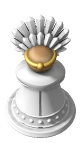
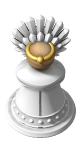
Mexica: Pilli Mexica's head on a neck with the band higher, and heads to compare: hair, face, face paint
Claude-Session: https://claude.ai/code/session_01P5r4sdmPFjyHFbMXuL3JW2

Changed region(s): [[0.2716, 0.2797, 0.7407, 0.5874], [0.7654, 0.3357, 0.7901, 0.3636]]

diff --git a/games/mexica-ui/src/lib/board/pilliLight.ts b/games/mexica-ui/src/lib/board/pilliLight.ts
@@ -35,12 +35,13 @@ import {
 const WOOD = { light: linear('#e2bf91'), dark: linear('#b98a5a') }
 const GOLD = { light: linear('#f0c85a'), dark: linear('#8a5a1c') }
 const TURQUOISE = { light: linear('#4cc3b4'), dark: linear('#0f5e5a') }
+const HAIR = { light: linear('#4a3a2e'), dark: linear('#15100c') }
 // The light on a painted face turned towards it shows the paint as it is.
 const FULL_LIGHT = 0.95
 
 // What a point of the figure is made of: paint, lightened (above 1) or darkened (below) by
-// what is painted there, bare wood, gold or turquoise.
-type Finish = { kind: 'paint' | 'wood' | 'gold' | 'turquoise'; tone: number }
+// what is painted there, bare wood, gold, turquoise, or black hair and face paint.
+type Finish = { kind: 'paint' | 'wood' | 'gold' | 'turquoise' | 'hair'; tone: number }
 type Part = { distance: (p: Vec) => number; finish: (p: Vec) => Finish }
 type Figure = { scene: Scene; finish: (p: Vec) => Finish }
 
@@ -147,6 +148,12 @@ function shade(p: Vec, figure: Figure, toward: Vec): Sample[] {
         const shine = 0.8 * facing ** 24
         return opaque(add(scale(metal, 0.3 + 0.8 * light), [shine, shine * 0.9, shine * 0.6]))
     }
+    if (finish.kind === 'hair') {
+        const half = normalize(add(KEY, toward))
+        const sheen = 0.06 * clamp(dot(normal, half)) ** 12
+        const dark = mix(HAIR.dark, HAIR.light, sun)
+        return opaque(add(scale(dark, 0.4 + 0.7 * light), [sheen, sheen, sheen]))
+    }
     if (finish.kind === 'turquoise') {
         const half = normalize(add(KEY, toward))
         const polish = 0.25 * clamp(dot(normal, half)) ** 30
@@ -211,13 +218,16 @@ const paint = (tone = 1): Finish => ({ kind: 'paint', tone })
 const WOODEN: Finish = { kind: 'wood', tone: 1 }
 const GILT: Finish = { kind: 'gold', tone: 1 }
 const STONE: Finish = { kind: 'turquoise', tone: 1 }
+const BLACK: Finish = { kind: 'hair', tone: 1 }
 
 // The robe up to the neck, the cape over the shoulders, the head on top.
 const ROBE = { foot: 8.6, neck: 4.6, height: 15.5, round: 1.3 }
 const PLINTH = { height: 1.8, radius: 9.1, round: 0.45 }
 const CAPE: Vec = [6.4, 4.6, 2.9]
 const CAPE_AT = 15.6
-const HEAD = { radius: 3.7, at: [0, 0.3, 21.2] satisfies Vec }
+// The head stands clear of the cape on a short neck, so its face shows from the table's side.
+const HEAD = { radius: 3.7, at: [0, 0.3, 22.4] satisfies Vec }
+const NECK = { from: [0, 0.1, 17.6] satisfies Vec, radius: 1.9 }
 // The band round the hem, clear of the ring at the foot: a raised line along each edge and
 // between them a stepped fret, repeating a whole number of times round the robe.
 const HEM = {
@@ -455,13 +465,67 @@ function head(p: Vec): number {
     return sphere(p, HEAD.at, HEAD.radius)
 }
 
+// Hair over the head down to a fringe across the brow, lower at the sides and the back, standing
+// a little proud of the head so its edge shows.
+const FRINGE = { back: -2.7, front: 1.5, proud: 0.3 }
+const NOSE: Vec = [0, HEAD.at[1] + HEAD.radius - 0.25, HEAD.at[2] - 0.75]
+const EYES = { apart: 1.2, rise: 0.15, size: 0.42 }
+const FACE_PAINT = { rise: 0.15, half: 0.6 }
+
+function fringeAt(p: Vec): number {
+    const front = (p[1] - HEAD.at[1]) / HEAD.radius
+    return FRINGE.back + (FRINGE.front - FRINGE.back) * smoothstep(-0.3, 0.8, front)
+}
+
+function hair(p: Vec): number {
+    const cap = sphere(p, HEAD.at, HEAD.radius + FRINGE.proud)
+    return Math.max(cap, fringeAt(p) - (p[2] - HEAD.at[2]))
+}
+
+function nose(p: Vec): number {
+    return ellipsoid([p[0] - NOSE[0], p[1] - NOSE[1], p[2] - NOSE[2]], [0.55, 0.7, 0.85])
+}
+
+function headPart(style: PilliStyle): Part {
+    const haired = style.head !== 'plain'
+    const faced = style.head === 'face' || style.head === 'painted'
+    return {
+        distance: (p) => {
+            let shape = blend(head(p), capsule(p, NECK.from, HEAD.at, NECK.radius), 0.6)
+            if (haired) shape = Math.min(shape, hair(p))
+            if (faced) shape = blend(shape, nose(p), 0.35)
+            return shape
+        },
+        finish: (p) => {
+            if (haired && hair(p) < 0.12) return BLACK
+            const rise = p[2] - HEAD.at[2]
+            const front = p[1] - HEAD.at[1] > 1
+            if (
+                style.head === 'painted' &&
+                front &&
+                Math.abs(rise - FACE_PAINT.rise) < FACE_PAINT.half
+            ) {
+                return BLACK
+            }
+            if (faced && front) {
+                const eye = Math.min(
+                    length2(p[0] - EYES.apart, rise - EYES.rise),
+                    length2(p[0] + EYES.apart, rise - EYES.rise)
+                )
+                if (eye < EYES.size) return BLACK
+            }
+            return WOODEN
+        }
+    }
+}
+
 // What the head wears, as parts of their own: a gold band with a jewel; a thinner circlet
 // higher on the brow with a medallion; the pointed turquoise diadem of the Mexica rulers on a
 // gold band; or the band with gold ear spools set with turquoise.
-const BAND = { at: HEAD.at[2] + 1.1, radius: 3.55, thickness: 0.62 }
-const JEWEL: Vec = [0, HEAD.at[1] + 3.75, BAND.at + 0.1]
+const BAND = { at: HEAD.at[2] + 2.0, radius: 3.2, thickness: 0.6 }
+const JEWEL: Vec = [0, HEAD.at[1] + BAND.radius + 0.25, BAND.at + 0.1]
 const CIRCLET = { rise: 1.9, thickness: 0.42, medallion: 1.05, depth: 0.32 }
-const DIADEM = { rise: 0.75, lean: 0.38, half: 2.6, height: 4.8, thickness: 0.22, rim: 0.4 }
+const DIADEM = { rise: 1.7, lean: 0.38, half: 2.6, height: 4.8, thickness: 0.22, rim: 0.4 }
 const SPOOL = { radius: 1.5, depth: 0.5, stone: 0.8, drop: 1.3, out: 0.35 }
 
 // A ring round the head at `rise` above its centre, `thickness` thick.
@@ -665,7 +729,7 @@ function figureOf(style: PilliStyle): Figure {
     const shapeOf = style.fan === 'plain' ? plainFan : featherFan
     const parts: Part[] = [
         { distance: (p) => body(style, p), finish: (p) => bodyFinish(style, p) },
-        { distance: head, finish: () => WOODEN },
+        headPart(style),
         ...fans.map((fan) => ({
             distance: (p: Vec) => shapeOf(fan, p),
             finish: (p: Vec) => fanFinish(style, fan, p)

diff --git a/games/mexica-ui/src/lib/board/lookOutlines.ts b/games/mexica-ui/src/lib/board/lookOutlines.ts
@@ -1,6 +1,6 @@
 // Written by scripts/render-looks.mjs: each figure's outline, by the name of its look.
 export const LOOK_OUTLINES: Record<string, string> = {
-    pilli: 'M-0.09 -32.46L-0.54 -32.24L-1.59 -31.29L-1.48 -30.96L-1.48 -30.07L-1.37 -29.96L-1.37 -29.18L-1.26 -29.07L-1.31 -28.68L-1.59 -28.74L-1.7 -29.07L-1.81 -30.29L-2.09 -31.24L-3.54 -31.9L-3.98 -31.79L-4.48 -31.29L-4.92 -30.4L-4.92 -29.96L-3.87 -27.46L-4.04 -27.52L-5.15 -29.74L-5.42 -30.02L-6.2 -30.24L-7.09 -30.24L-7.48 -29.85L-7.7 -28.18L-6.09 -26.02L-7.15 -27.18L-7.98 -27.9L-8.09 -27.79L-8.98 -27.79L-9.31 -27.68L-9.59 -27.4L-9.59 -26.74L-9.04 -25.52L-9.04 -25.29L-7.81 -24.29L-8.09 -24.35L-8.76 -24.79L-9.09 -24.79L-10.04 -24.29L-10.15 -24.07L-10.04 -23.74L-8.2 -22.02L-7.26 -21.63L-7.54 -21.57L-7.87 -21.68L-8.09 -21.46L-8.54 -21.35L-8.81 -21.07L-8.7 -20.85L-7.65 -20.24L-6.76 -20.02L-6.09 -19.46L-5.76 -19.35L-5.76 -19.24L-5.98 -19.24L-6.37 -18.96L-5.98 -18.68L-5.54 -18.68L-5.37 -18.52L-5.37 -18.07L-5.15 -17.63L-6.31 -16.9L-7.48 -15.74L-8.04 -14.85L-8.26 -14.18L-8.26 -13.74L-8.37 -13.63L-8.26 -12.63L-8.15 -12.52L-8.15 -11.63L-7.7 -10.63L-7.04 -9.85L-6.48 -9.4L-6.48 -9.18L-6.81 -8.18L-8.42 -7.13L-9.7 -5.85L-10.92 -3.96L-11.48 -2.74L-11.7 -1.96L-11.7 -1.52L-11.81 -1.4L-11.81 0.6L-11.7 0.71L-11.7 1.15L-11.37 2.26L-10.37 4.04L-8.98 5.54L-7.31 6.76L-5.2 7.76L-3.31 8.32L-2.2 8.43L-2.09 8.54L-1.2 8.54L-1.09 8.65L1.02 8.65L1.13 8.54L2.8 8.43L2.91 8.32L3.35 8.32L4.91 7.87L7.13 6.87L8.58 5.87L10.19 4.26L10.74 3.48L11.41 2.15L11.63 1.48L11.63 1.04L11.74 0.93L11.74 0.37L11.85 0.26L11.85 -1.07L11.74 -1.18L11.74 -1.74L11.3 -3.18L9.96 -5.52L8.69 -6.9L6.74 -8.29L6.52 -9.4L7.63 -10.52L7.96 -11.07L8.19 -11.74L8.3 -14.07L7.85 -15.18L7.3 -15.96L6.02 -17.13L5.19 -17.52L5.41 -18.52L5.58 -18.68L6.02 -18.68L6.3 -18.85L6.24 -19.13L5.74 -19.29L5.91 -19.46L6.24 -19.57L6.8 -20.02L7.69 -20.24L8.35 -20.57L8.74 -20.96L8.74 -21.18L8.58 -21.35L8.35 -21.35L7.91 -21.68L7.58 -21.57L7.3 -21.63L8.02 -21.9L8.46 -22.24L9.91 -23.57L10.08 -23.85L10.08 -24.29L9.91 -24.46L9.46 -24.57L9.02 -24.9L7.91 -24.24L7.63 -24.18L8.96 -25.18L9.52 -26.52L9.63 -27.29L9.52 -27.52L9.24 -27.68L8.13 -27.79L8.02 -27.9L6.35 -26.35L6.3 -26.4L6.74 -26.85L7.74 -28.29L7.63 -28.4L7.52 -29.74L7.13 -30.24L6.24 -30.24L6.13 -30.13L5.35 -30.02L4.19 -27.74L3.91 -27.46L3.96 -27.85L4.3 -28.4L4.96 -30.29L4.41 -31.4L3.8 -31.9L3.13 -31.79L1.96 -31.07L1.85 -29.96L1.63 -29.29L1.63 -28.74L1.35 -28.68L1.3 -29.4L1.41 -29.52L1.41 -30.29L1.52 -30.4L1.52 -31.29L0.69 -32.13L0.13 -32.46ZM5.85 -25.85L5.96 -25.85ZM-7.7 -24.18L-7.59 -24.18ZM-7.15 -21.52L-7.04 -21.52ZM-7.37 -6.96L-7.26 -6.96Z',
+    pilli: 'M-0.09 -32.46L-0.54 -32.24L-1.59 -31.29L-1.48 -30.96L-1.48 -30.07L-1.37 -29.96L-1.37 -29.18L-1.26 -29.07L-1.31 -28.68L-1.59 -28.74L-1.7 -29.07L-1.81 -30.29L-2.09 -31.24L-3.54 -31.9L-3.98 -31.79L-4.48 -31.29L-4.92 -30.4L-4.92 -29.96L-3.87 -27.46L-4.04 -27.52L-5.15 -29.74L-5.42 -30.02L-6.2 -30.24L-7.09 -30.24L-7.48 -29.85L-7.7 -28.18L-6.09 -26.02L-7.15 -27.18L-7.98 -27.9L-8.09 -27.79L-8.98 -27.79L-9.31 -27.68L-9.59 -27.4L-9.59 -26.74L-9.04 -25.52L-9.04 -25.29L-7.81 -24.29L-8.09 -24.35L-8.76 -24.79L-9.09 -24.79L-10.04 -24.29L-10.15 -24.07L-10.04 -23.74L-8.2 -22.02L-7.26 -21.63L-7.54 -21.57L-7.87 -21.68L-8.09 -21.46L-8.54 -21.35L-8.81 -21.07L-8.7 -20.85L-7.65 -20.24L-6.76 -20.02L-6.09 -19.46L-5.76 -19.35L-5.76 -19.24L-5.98 -19.24L-6.37 -18.96L-5.98 -18.68L-4.87 -18.57L-4.7 -18.18L-4.7 -17.74L-5.65 -17.35L-6.31 -16.9L-7.48 -15.74L-8.04 -14.85L-8.26 -14.18L-8.26 -13.74L-8.37 -13.63L-8.26 -12.63L-8.15 -12.52L-8.15 -11.63L-7.7 -10.63L-7.04 -9.85L-6.48 -9.4L-6.48 -9.18L-6.81 -8.18L-8.42 -7.13L-9.7 -5.85L-10.92 -3.96L-11.48 -2.74L-11.7 -1.96L-11.7 -1.52L-11.81 -1.4L-11.81 0.6L-11.7 0.71L-11.7 1.15L-11.37 2.26L-10.37 4.04L-8.98 5.54L-7.31 6.76L-5.2 7.76L-3.31 8.32L-2.2 8.43L-2.09 8.54L-1.2 8.54L-1.09 8.65L1.02 8.65L1.13 8.54L2.8 8.43L2.91 8.32L3.35 8.32L4.91 7.87L7.13 6.87L8.58 5.87L10.19 4.26L10.74 3.48L11.41 2.15L11.63 1.48L11.63 1.04L11.74 0.93L11.74 0.37L11.85 0.26L11.85 -1.07L11.74 -1.18L11.74 -1.74L11.63 -1.85L11.52 -2.63L10.41 -4.85L9.52 -6.07L8.69 -6.9L6.74 -8.29L6.74 -8.63L6.52 -9.07L6.52 -9.4L7.85 -10.85L8.19 -11.74L8.3 -14.07L8.08 -14.74L7.3 -15.96L6.46 -16.79L6.02 -17.13L4.63 -17.74L4.8 -18.57L5.46 -18.57L6.3 -18.85L6.24 -19.13L5.74 -19.29L5.91 -19.46L6.24 -19.57L6.8 -20.02L7.69 -20.24L8.35 -20.57L8.74 -20.96L8.74 -21.18L8.58 -21.35L8.35 -21.35L7.91 -21.68L7.58 -21.57L7.3 -21.63L8.02 -21.9L9.02 -22.68L9.96 -23.63L10.08 -24.29L9.69 -24.57L9.24 -24.68L9.02 -24.9L7.91 -24.24L7.63 -24.18L8.96 -25.18L9.52 -26.52L9.63 -27.29L9.52 -27.52L9.24 -27.68L8.13 -27.79L8.02 -27.9L6.35 -26.35L6.3 -26.4L6.74 -26.85L7.74 -28.29L7.63 -28.4L7.52 -29.74L7.13 -30.24L6.24 -30.24L6.13 -30.13L5.35 -30.02L4.19 -27.74L3.91 -27.46L3.96 -27.85L4.3 -28.4L4.96 -30.29L4.41 -31.4L3.8 -31.9L3.13 -31.79L1.96 -31.07L1.85 -29.96L1.63 -29.29L1.63 -28.74L1.35 -28.68L1.3 -29.4L1.41 -29.52L1.41 -30.29L1.52 -30.4L1.52 -31.29L0.69 -32.13L0.13 -32.46ZM5.85 -25.85L5.96 -25.85ZM-7.7 -24.18L-7.59 -24.18ZM-7.15 -21.52L-7.04 -21.52ZM-7.37 -6.96L-7.26 -6.96Z',
     'pilli-flat':
         'M-1.42 -11.79L-1.54 -11.68L-2.09 -11.68L-2.2 -11.57L-3.09 -11.46L-3.54 -11.24L-3.87 -11.24L-5.42 -10.57L-7.31 -9.35L-8.31 -8.46L-9.37 -7.29L-10.26 -5.96L-11.04 -4.41L-11.48 -3.07L-11.59 -2.18L-11.7 -2.07L-11.7 -1.41L-11.81 -1.29L-11.81 1.26L-11.7 1.37L-11.7 2.04L-11.59 2.15L-11.48 3.04L-10.48 5.59L-9.04 7.71L-7.2 9.43L-5.42 10.54L-4.54 10.98L-3.2 11.43L-2.42 11.54L-2.31 11.65L-1.76 11.65L-1.65 11.76L-0.65 11.76L-0.54 11.87L1.69 11.76L1.8 11.65L2.35 11.65L4.24 11.09L6.24 10.09L8.13 8.65L9.63 6.93L10.85 4.82L11.52 2.93L11.52 2.48L11.74 1.82L11.74 0.93L11.85 0.82L11.74 -1.85L11.63 -1.96L11.63 -2.41L11.08 -4.29L10.08 -6.29L9.19 -7.52L7.02 -9.57L6.02 -10.24L4.69 -10.91L3.13 -11.46L2.24 -11.57L2.13 -11.68L1.58 -11.68L1.46 -11.79ZM-8.37 -5.96L-8.26 -5.96ZM-5.15 -3.96L-5.04 -3.96Z'
 }

diff --git a/games/mexica-ui/src/routes/looks/+page.svelte b/games/mexica-ui/src/routes/looks/+page.svelte
@@ -39,13 +39,15 @@
     let previews: Record<string, string> | undefined = $state()
     type Figure = { url: string; shine: string; outline: string; box: Box }
     let figures: Record<string, Figure> | undefined = $state()
-    // Headdresses to compare, dry-brushed as the board shows them.
-    const FIGURE_STYLES: [string, PilliStyle][] = [
-        ['band', { ...PILLI_STYLE, headband: 'band' }],
-        ['circlet', { ...PILLI_STYLE, headband: 'circlet' }],
-        ['diadem', { ...PILLI_STYLE, headband: 'diadem' }],
-        ['ear spools', { ...PILLI_STYLE, headband: 'spools' }]
-    ]
+    // Heads under the band and the diadem, dry-brushed as the board shows them.
+    const HEADS: PilliStyle['head'][] = ['plain', 'hair', 'face', 'painted']
+    const HEADBANDS: PilliStyle['headband'][] = ['band', 'diadem']
+    const FIGURE_STYLES: [string, PilliStyle][] = HEADS.flatMap((head) =>
+        HEADBANDS.map((headband): [string, PilliStyle] => [
+            `${head}, ${headband}`,
+            { ...PILLI_STYLE, head, headband }
+        ])
+    )
     const SHINES = [PILLI_SHINE]
     const FIGURE_ROWS = FIGURE_STYLES.flatMap(([name]) => SHINES.map((shine) => ({ name, shine })))
     const FIGURE_COLORS: readonly Color[] = [

diff --git a/games/mexica-ui/src/lib/board/pilliShape.ts b/games/mexica-ui/src/lib/board/pilliShape.ts
@@ -13,6 +13,8 @@ import { type Box, PILLI_SIZE } from './view.js'
 //     fastened a cloak.
 //   arms: forearms meeting in front, wooden hands clasped.
 //   fan: a smooth fan, separate feathers, or a second, shorter row of feathers in front.
+//   head: bare wood, or black hair with a fringe; with a nose and painted eyes (face); or with
+//     a band of black paint across the eyes as well (painted).
 //   headband: a gold band round the head with a jewel at the front; a thinner circlet higher
 //     on the brow with a medallion; the xiuhuitzolli, the pointed turquoise diadem of the
 //     Mexica rulers; or the band with ear spools.
@@ -24,6 +26,7 @@ export type PilliStyle = {
     knot: 'none' | 'shoulder' | 'chest'
     arms: boolean
     fan: 'plain' | 'feathers' | 'tiered'
+    head: 'plain' | 'hair' | 'face' | 'painted'
     headband: 'none' | 'band' | 'circlet' | 'diadem' | 'spools'
     eyes: boolean
 }
@@ -35,6 +38,7 @@ export const PILLI_STYLE: PilliStyle = {
     knot: 'none',
     arms: false,
     fan: 'tiered',
+    head: 'plain',
     headband: 'band',
     eyes: false
 }
